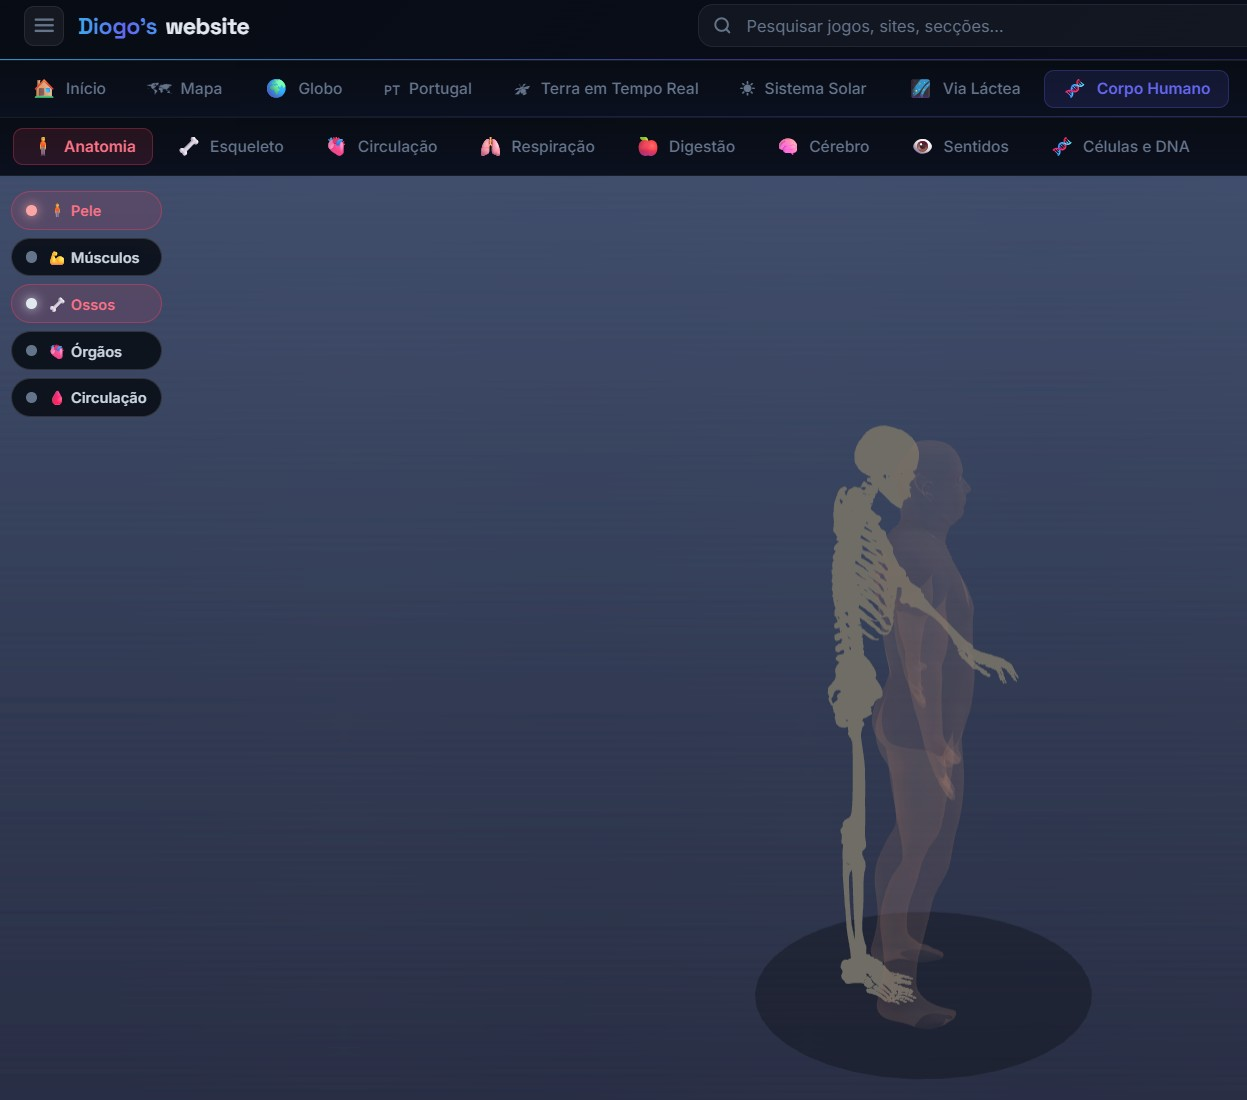
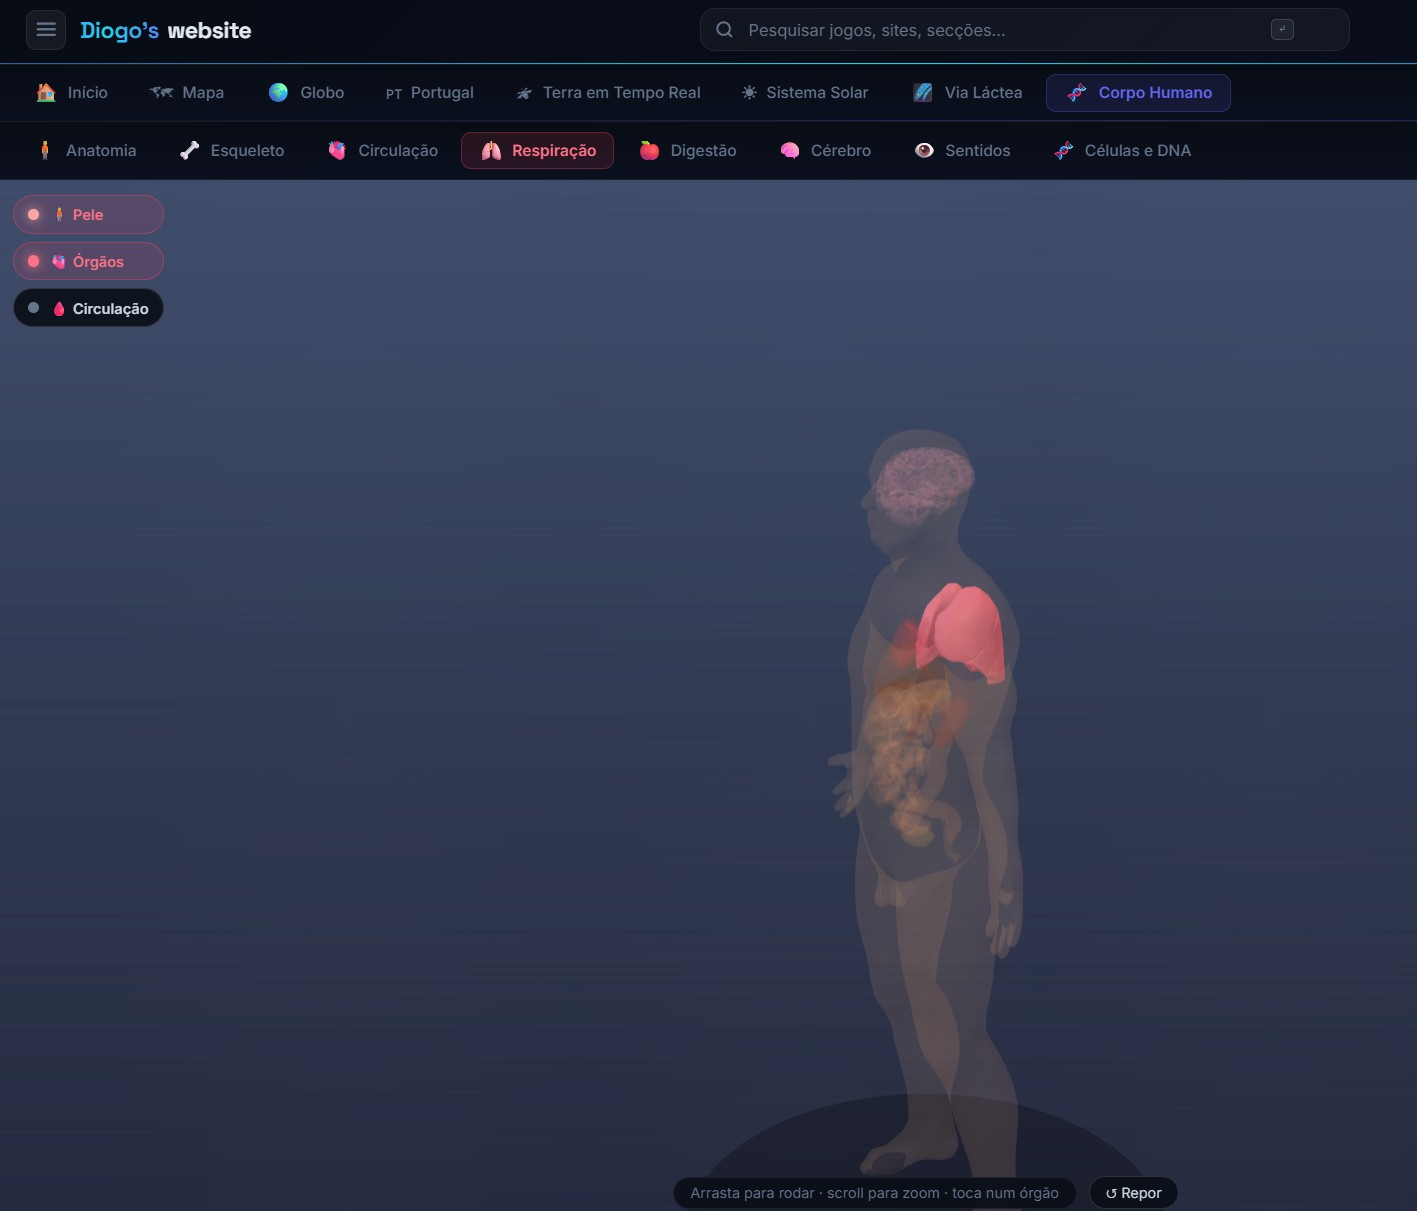
Corpo Humano: co-registered skeleton (extracted from VH_M atlas) — bones now align
The standalone skeleton was from a different source and didn't line up
over the skin/organs. Extracted the VH_M_skeletal_system subtree from the
same Visible Human Male 'united' atlas (NIH 3D 3DPX-021022, CC-BY) that
the organs come from -> it shares the exact coordinate space (1.60 m tall,
centred), so it overlays perfectly via the same _vhWrap.

- Skeleton now loads with _vhWrap like the organs (was _fitModel).
- Restored 'Ossos' as a layer toggle (it co-registers now), so you can
  see bones inside the translucent body alongside organs.
- Esqueleto topic shows skin + skeleton aligned.
- 666 KB; total body assets ~2.8 MB.

sw cache v84 -> v85.

Changed region(s): [[0.0, 0.0, 1.0, 0.4018], [0.4571, 0.3709, 0.8532, 1.0]]

diff --git a/js/explorer/explorer-body.js b/js/explorer/explorer-body.js
@@ -145,7 +145,7 @@ const HumanBodyExplorer = (function () {
         desc:_=>_t('Rotate and zoom the body. Use the buttons on the left to peel away layers — skin, skeleton, muscles, organs and the blood vessels.','Roda e aproxima o corpo. Usa os botões à esquerda para revelar camadas — pele, esqueleto, músculos, órgãos e os vasos sanguíneos.'),
         stats:[['~37 bi',_=>_t('cells','células')],['206',_=>_t('bones','ossos')],['~640',_=>_t('muscles','músculos')]],
         facts:[_=>_t('Tap any organ to learn what it does.','Toca em qualquer órgão para saber o que faz.')] } },
-    esqueleto:  { layers:{skin:0,skeleton:1,muscles:0,organs:0,vessels:0}, focusY:9,  dist:38, spotlight:null,
+    esqueleto:  { layers:{skin:1,skeleton:1,muscles:0,organs:0,vessels:0}, focusY:9,  dist:38, spotlight:null,
       intro:{ emoji:'🦴', name:_=>_t('Skeleton','Esqueleto'), sub:_=>_t('206 bones','206 ossos'),
         desc:_=>_t('The frame that supports and protects you, lets you move and makes blood inside its marrow.','A estrutura que te suporta, protege, te deixa mover e fabrica sangue na sua medula.'),
         stats:[['206',_=>_t('bones','ossos')],['~15%',_=>_t('of weight','do peso')]],
@@ -178,10 +178,11 @@ const HumanBodyExplorer = (function () {
         facts:[_=>_t('All your DNA uncoiled would reach the Sun and back ~300 times.','Todo o teu DNA esticado iria ao Sol e voltava ~300 vezes.'),_=>_t('Humans share ~99.9% of their DNA.','Os humanos partilham ~99,9% do DNA.')] } },
   };
 
-  /* Only the co-registered VH layers are overlay-toggleable. The skeleton lives
-     on its own "Esqueleto" topic (separate model, shown on its own). */
+  /* All layers come from the same co-registered VH_M atlas, so they overlay
+     perfectly. (Muscles dropped — no real muscle model.) */
   const LAYER_BTNS = [
     { id:'skin',     ic:'🧍', color:'#fca5a5', name:_=>_t('Skin','Pele') },
+    { id:'skeleton', ic:'🦴', color:'#e2e8f0', name:_=>_t('Bones','Ossos') },
     { id:'organs',   ic:'🫀', color:'#fb7185', name:_=>_t('Organs','Órgãos') },
     { id:'vessels',  ic:'🩸', color:'#ef4444', name:_=>_t('Circulation','Circulação') },
   ];
@@ -497,12 +498,13 @@ const HumanBodyExplorer = (function () {
       } catch (e) {}
       _replaceGroup('organs', organs);
 
-      // skeleton — standalone, shown on its own topic
+      // skeleton — extracted from the same VH_M atlas, so it co-registers and
+      // overlays the skin/organs perfectly via the same wrap
       try {
         const sk = await _loadGLB('skeleton');
         const bone = new THREE.MeshStandardMaterial({ color: 0xf2efe2, roughness: 0.5, metalness: 0.05, emissive: 0x1a1812 });
         sk.traverse(m => { if (m.isMesh) m.material = bone; });
-        _replaceGroup('skeleton', _fitModel(sk, 16.5, 0, -Math.PI / 2));
+        _replaceGroup('skeleton', _vhWrap(sk));
       } catch (e) {}
 
       _modelsReady = true;

diff --git a/sw.js b/sw.js
@@ -1,4 +1,4 @@
-const CACHE = 'dcop7-v84';
+const CACHE = 'dcop7-v85';
 const STATIC = [
   '/',
   '/index.html',

diff --git a/assets/models/body/CREDITS.md b/assets/models/body/CREDITS.md
@@ -21,11 +21,11 @@ Library of Medicine's Visible Human Project. Licence: CC BY 4.0.
 | intestine_small.glb | Small intestine | 3DPX-021017 |
 | intestine_large.glb | Large intestine | 3DPX-021005 |
 | bladder.glb | Urinary bladder | 3DPX-021025 |
+| skeleton.glb | Skeletal system (extracted from the VH_M "united" atlas) | 3DPX-021022 |
 
-## Standalone models
+## Standalone model
 | File | Model | NIH 3D entry | Licence |
 |------|-------|--------------|---------|
-| skeleton.glb | Human skeleton | 3DPX-016838 | CC BY 4.0 |
 | brain.glb | Detailed human brain | 3DPX-021161 | CC BY 4.0 |
 
 Attribution is also recorded in the repository's `ASSET-LICENSE-AUDIT.md`.